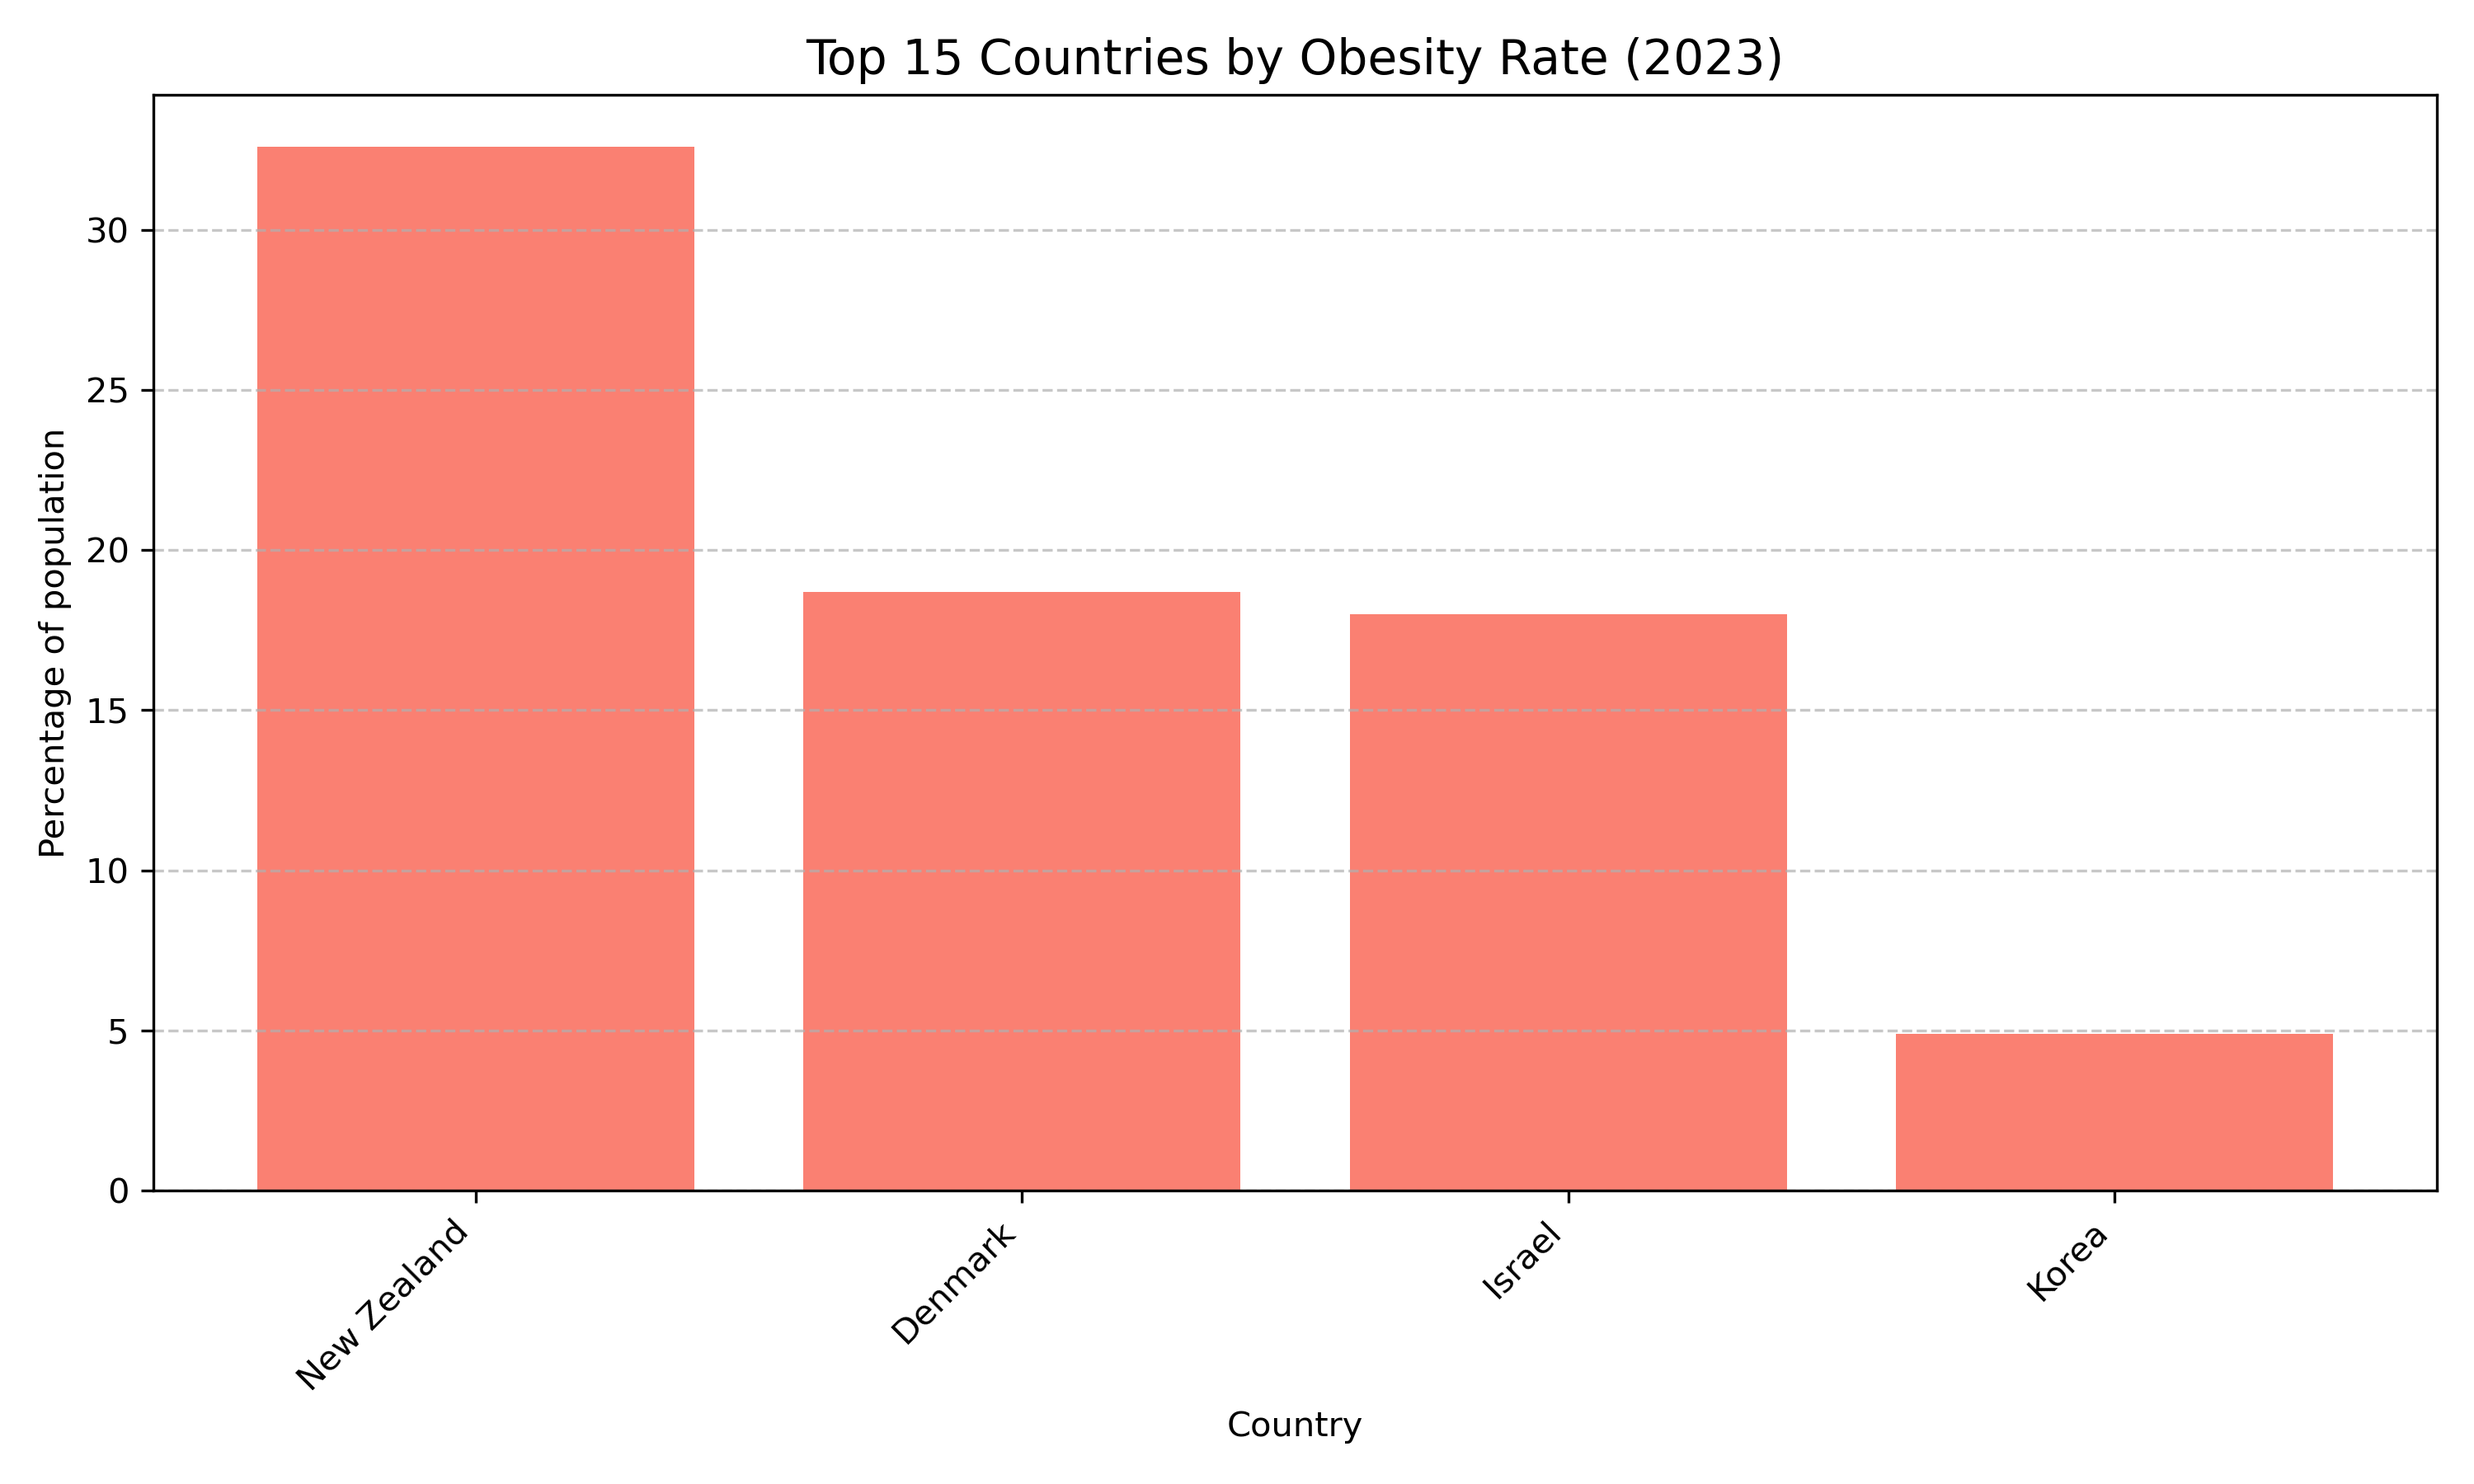
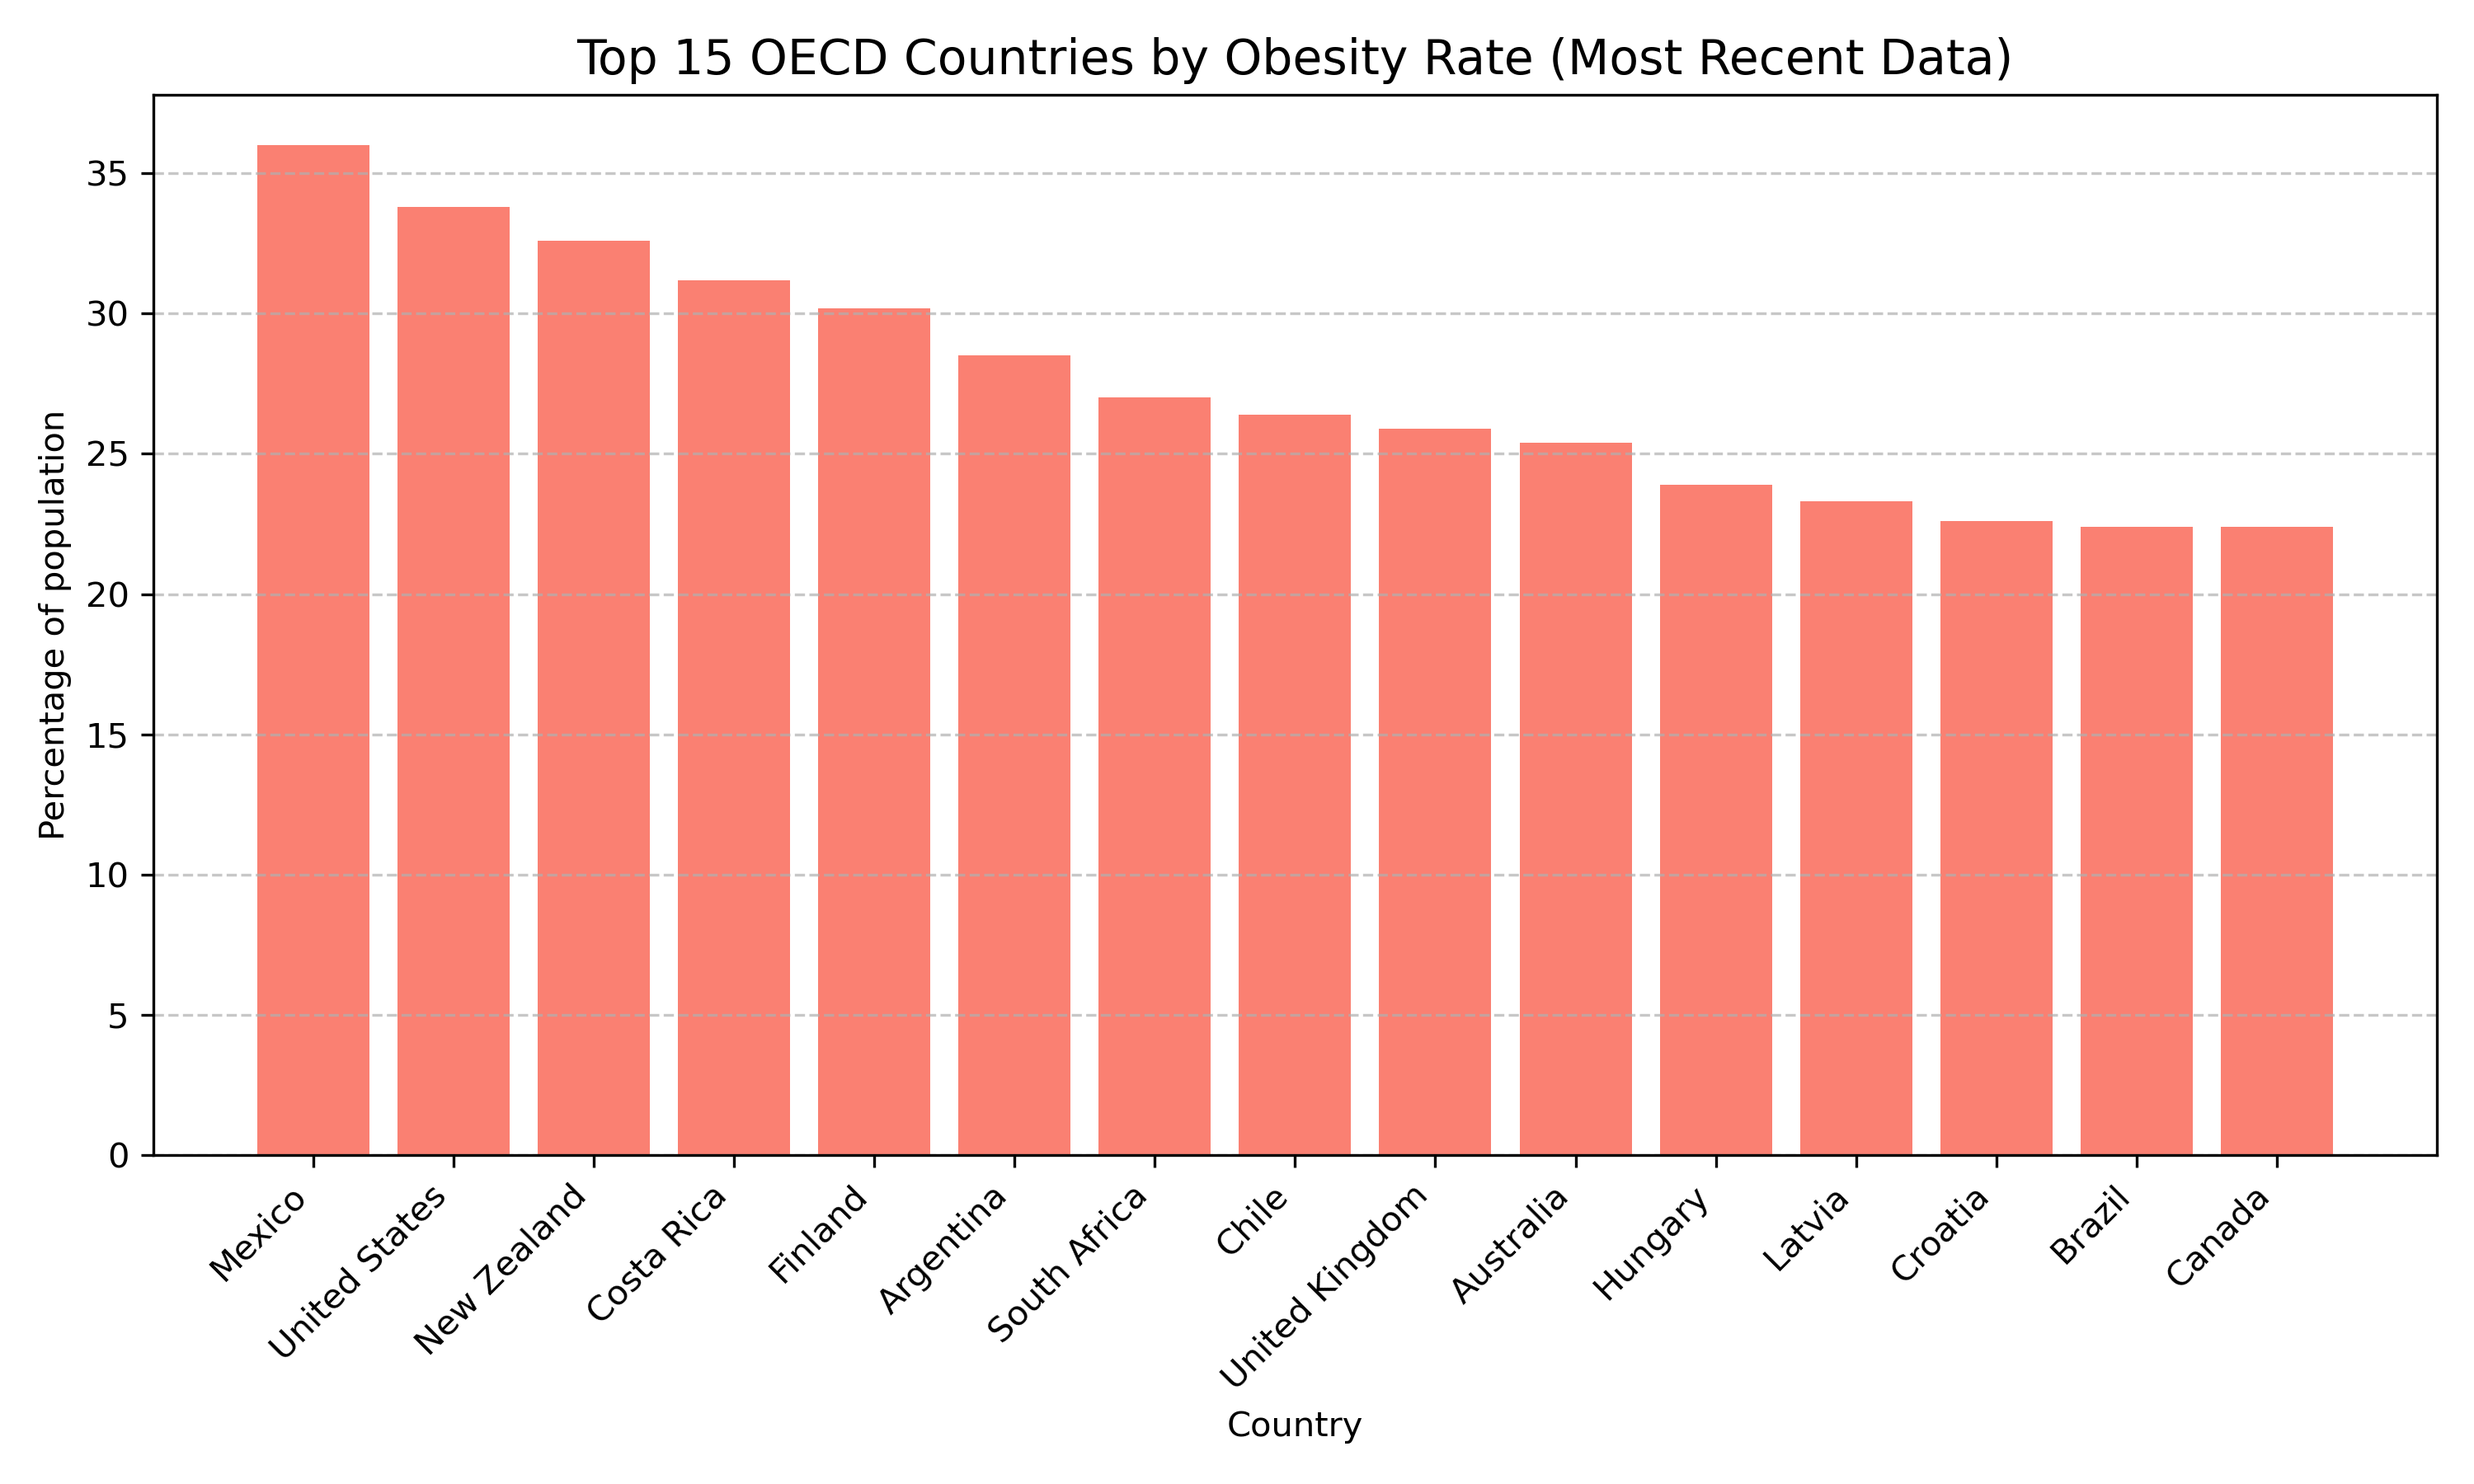
Fix: obesity rate chart now correctly shows top 15 countries

diff --git a/projects/generate_static_plots.py b/projects/generate_static_plots.py
@@ -57,13 +57,19 @@ class StaticPlotGenerator:
         
         # Plot 2: Obesity rates comparison
         plt.figure(figsize=(10, 6))
-        obese_df = df[df['measure'] == 'Obese'].sort_values('year', ascending=False)
-        if not obese_df.empty:
-            latest_year = obese_df['year'].max()
-            latest_obese = obese_df[obese_df['year'] == latest_year].sort_values('value', ascending=False).head(15)
+        
+        # Get latest available data point for EACH country for the 'Obese' measure
+        obese_all = df[df['measure'] == 'Obese'].copy()
+        if not obese_all.empty:
+            # Group by country and get the index of the maximum year for each
+            idx = obese_all.groupby('country')['year'].idxmax()
+            latest_obese_per_country = obese_all.loc[idx]
             
-            plt.bar(latest_obese['country'], latest_obese['value'], color='salmon')
-            plt.title(f'Top 15 Countries by Obesity Rate ({latest_year})', fontsize=14)
+            # Now take the top 15 of these latest data points
+            top_15_obese = latest_obese_per_country.sort_values('value', ascending=False).head(15)
+            
+            plt.bar(top_15_obese['country'], top_15_obese['value'], color='salmon')
+            plt.title('Top 15 OECD Countries by Obesity Rate (Most Recent Data)', fontsize=14)
             plt.xlabel('Country')
             plt.ylabel('Percentage of population')
             plt.xticks(rotation=45, ha='right')
